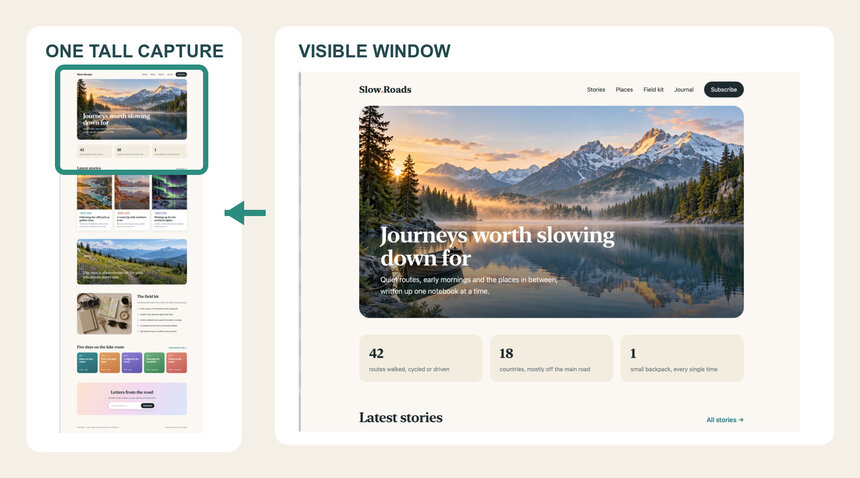
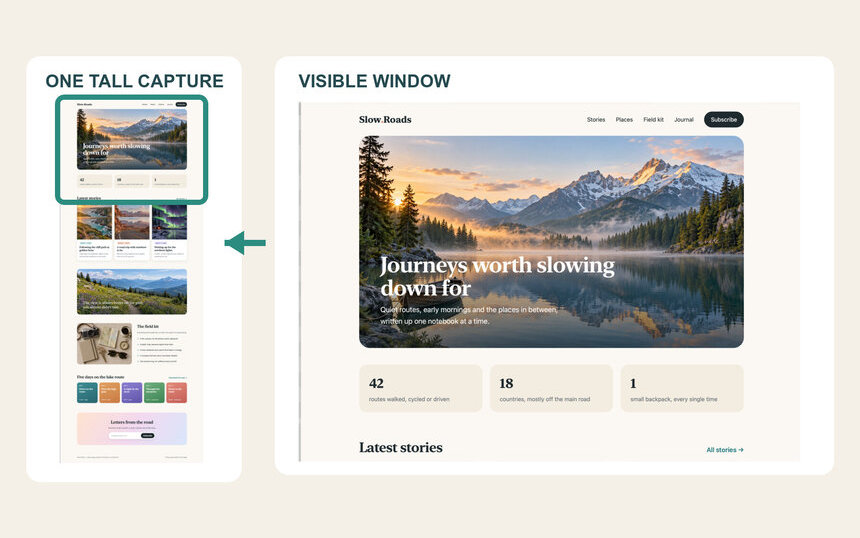
docs: use boxed Scrolling Capture image

diff --git a/README.md b/README.md
@@ -28,7 +28,7 @@ Click a picture to see it full size.
 
 <table>
   <tr>
-    <td width="33%" valign="top"><a href="docs/screenshots/scrolling-capture-window.jpg"><img src="docs/screenshots/thumbs/scrolling-capture-window.jpg" alt="A visible travel page beside one tall capture of the full page" width="100%"></a><br><b>Scrolling Capture</b> of a whole page</td>
+    <td width="33%" valign="top"><a href="docs/screenshots/scrolling-capture-strip.jpg"><img src="docs/screenshots/thumbs/scrolling-capture-strip.jpg" alt="One tall travel page capture with the visible section boxed, beside the browser window" width="100%"></a><br><b>Scrolling Capture</b> of a whole page</td>
     <td width="33%" valign="top"><a href="docs/screenshots/editor.jpg"><img src="docs/screenshots/thumbs/editor.jpg" alt="A marked-up travel page in the image editor" width="100%"></a><br><b>Image editor</b> with labels, arrows and blur</td>
     <td width="33%" valign="top"><a href="docs/screenshots/studio.jpg"><img src="docs/screenshots/thumbs/studio.jpg" alt="A travel site recording in Studio" width="100%"></a><br><b>Screen recording</b> and Studio</td>
   </tr>

diff --git a/docs/features.md b/docs/features.md
@@ -120,7 +120,7 @@ Capture a display, a window, an area, a scrolling region, or just the text in an
 
 ## Scrolling Capture
 
-<a href="screenshots/scrolling-capture-window.jpg"><img src="screenshots/thumbs/scrolling-capture-window.jpg" alt="The visible travel page beside one tall capture of the full page" width="620"></a>
+<a href="screenshots/scrolling-capture-strip.jpg"><img src="screenshots/thumbs/scrolling-capture-strip.jpg" alt="One tall travel page capture with the visible section boxed, beside the browser window" width="620"></a>
 
 Draw a box over a scrolling view, then scroll through it yourself or click the auto-scroll button on the capture bar. Sukusho lines up each new frame with the last one and adds only the rows that scrolled into view, giving one tall image up to 16,384 pixels high.
 
